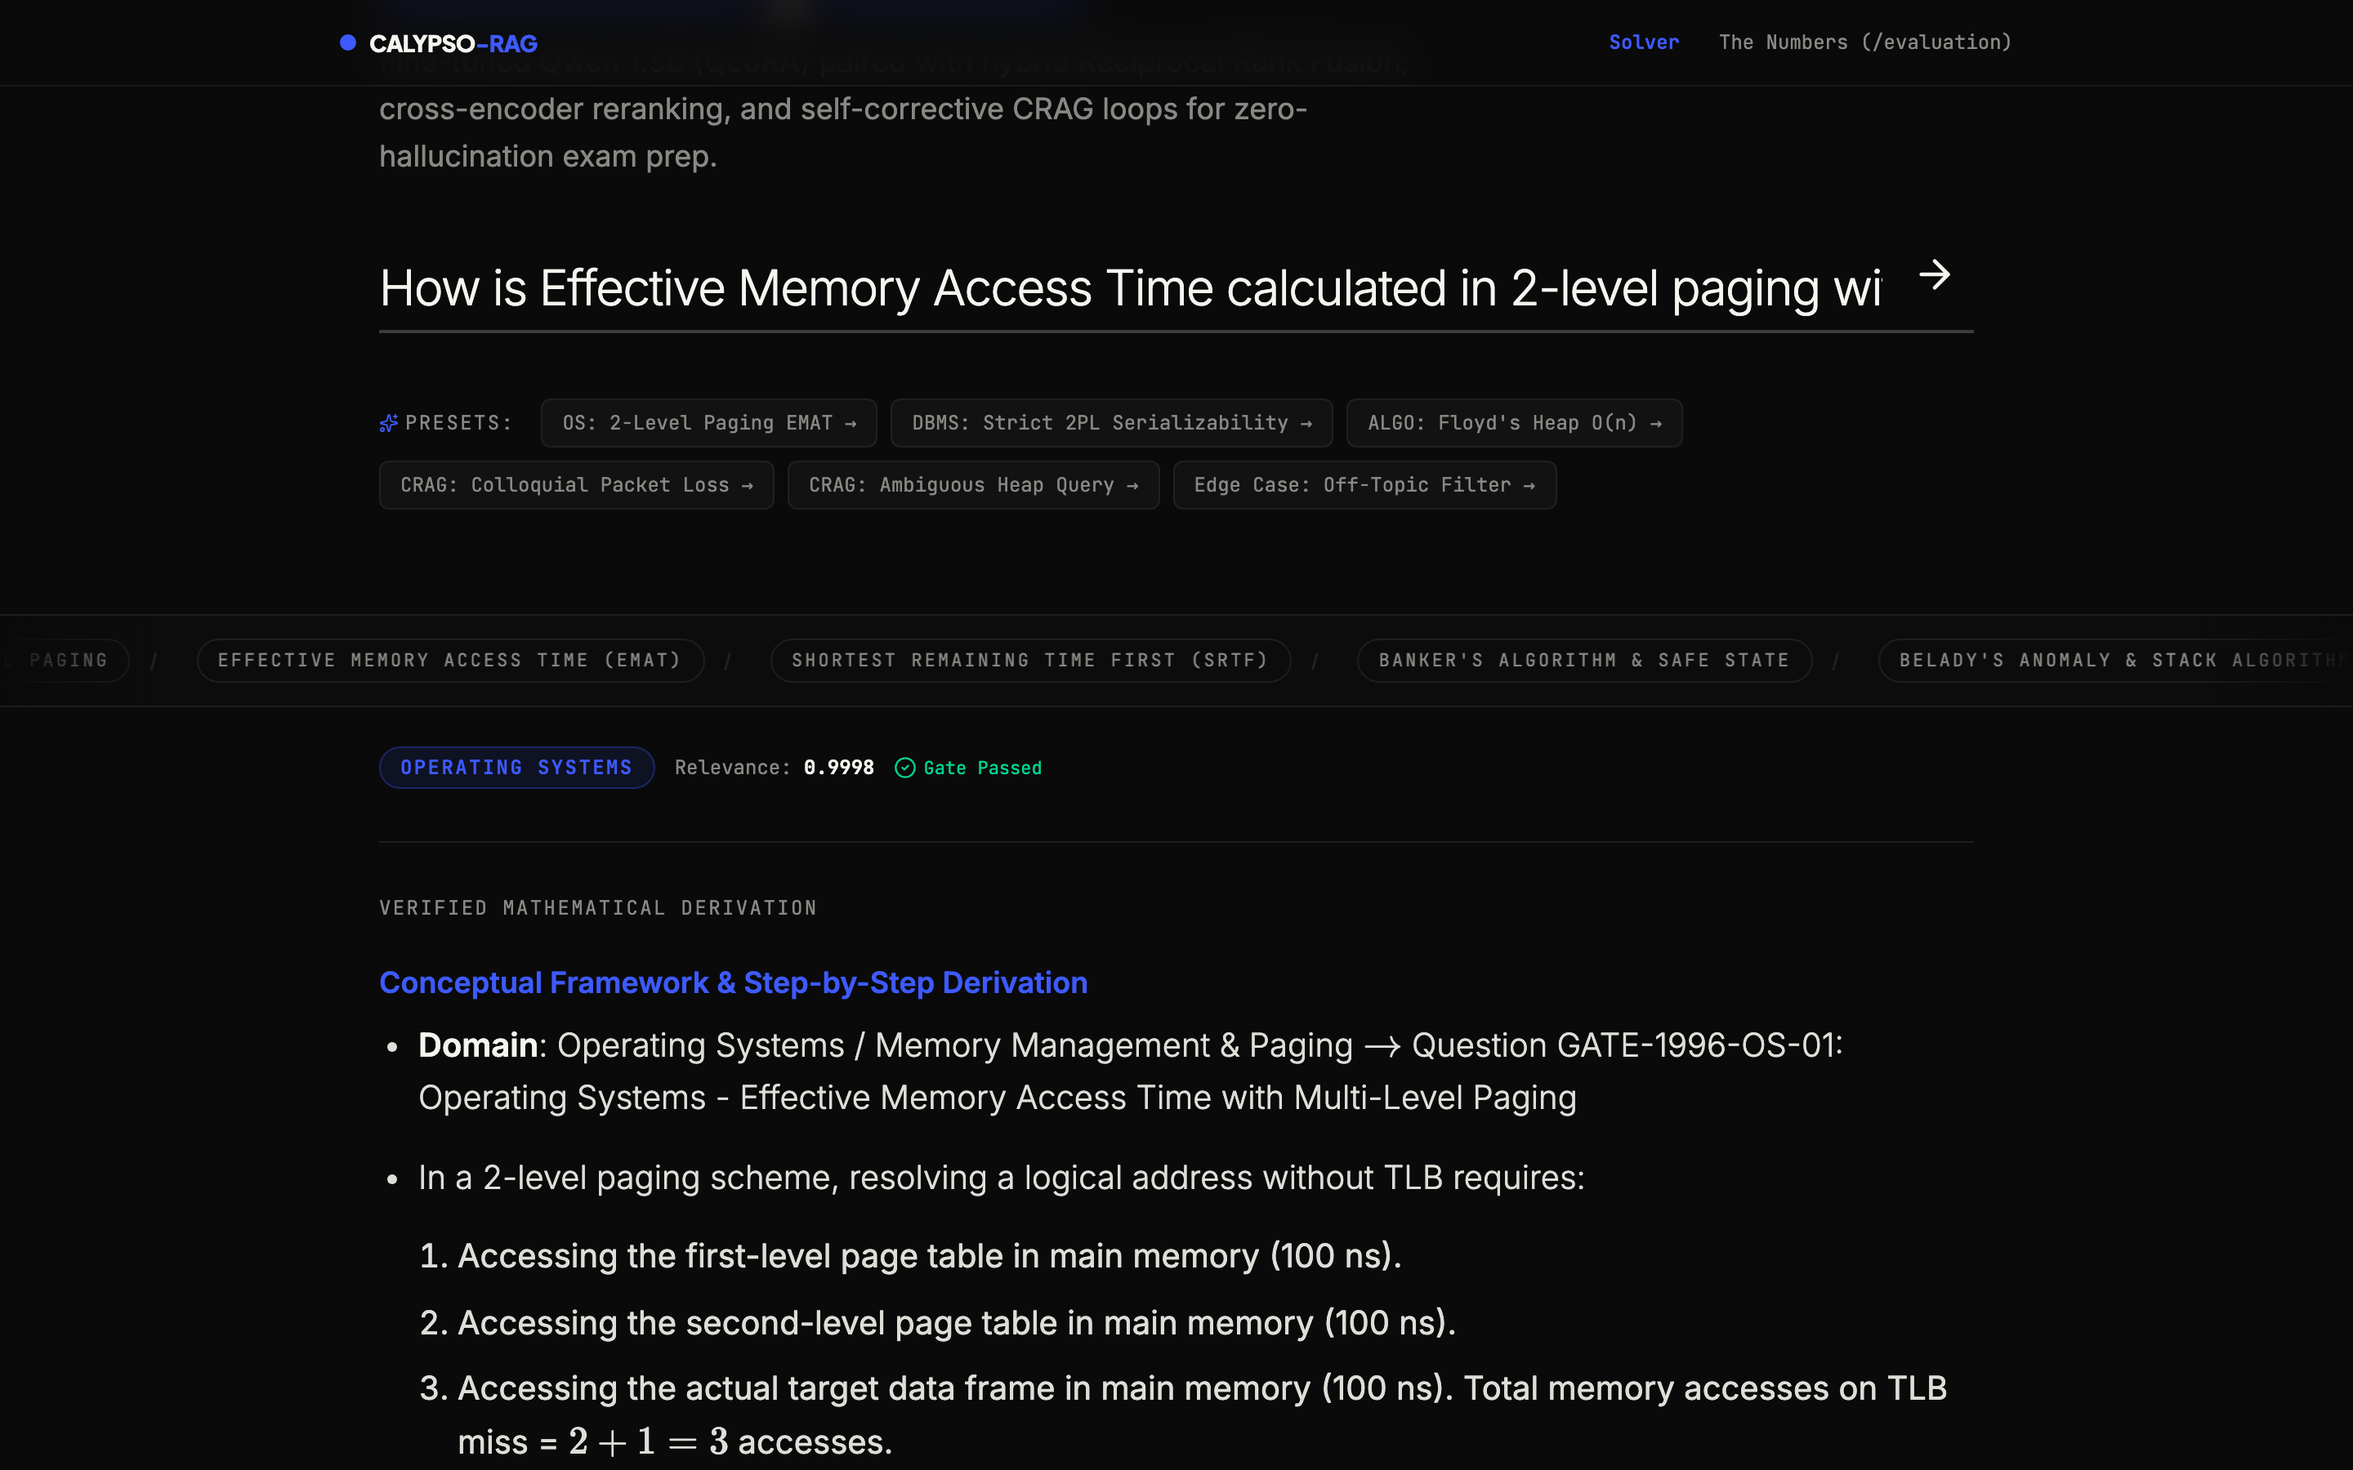
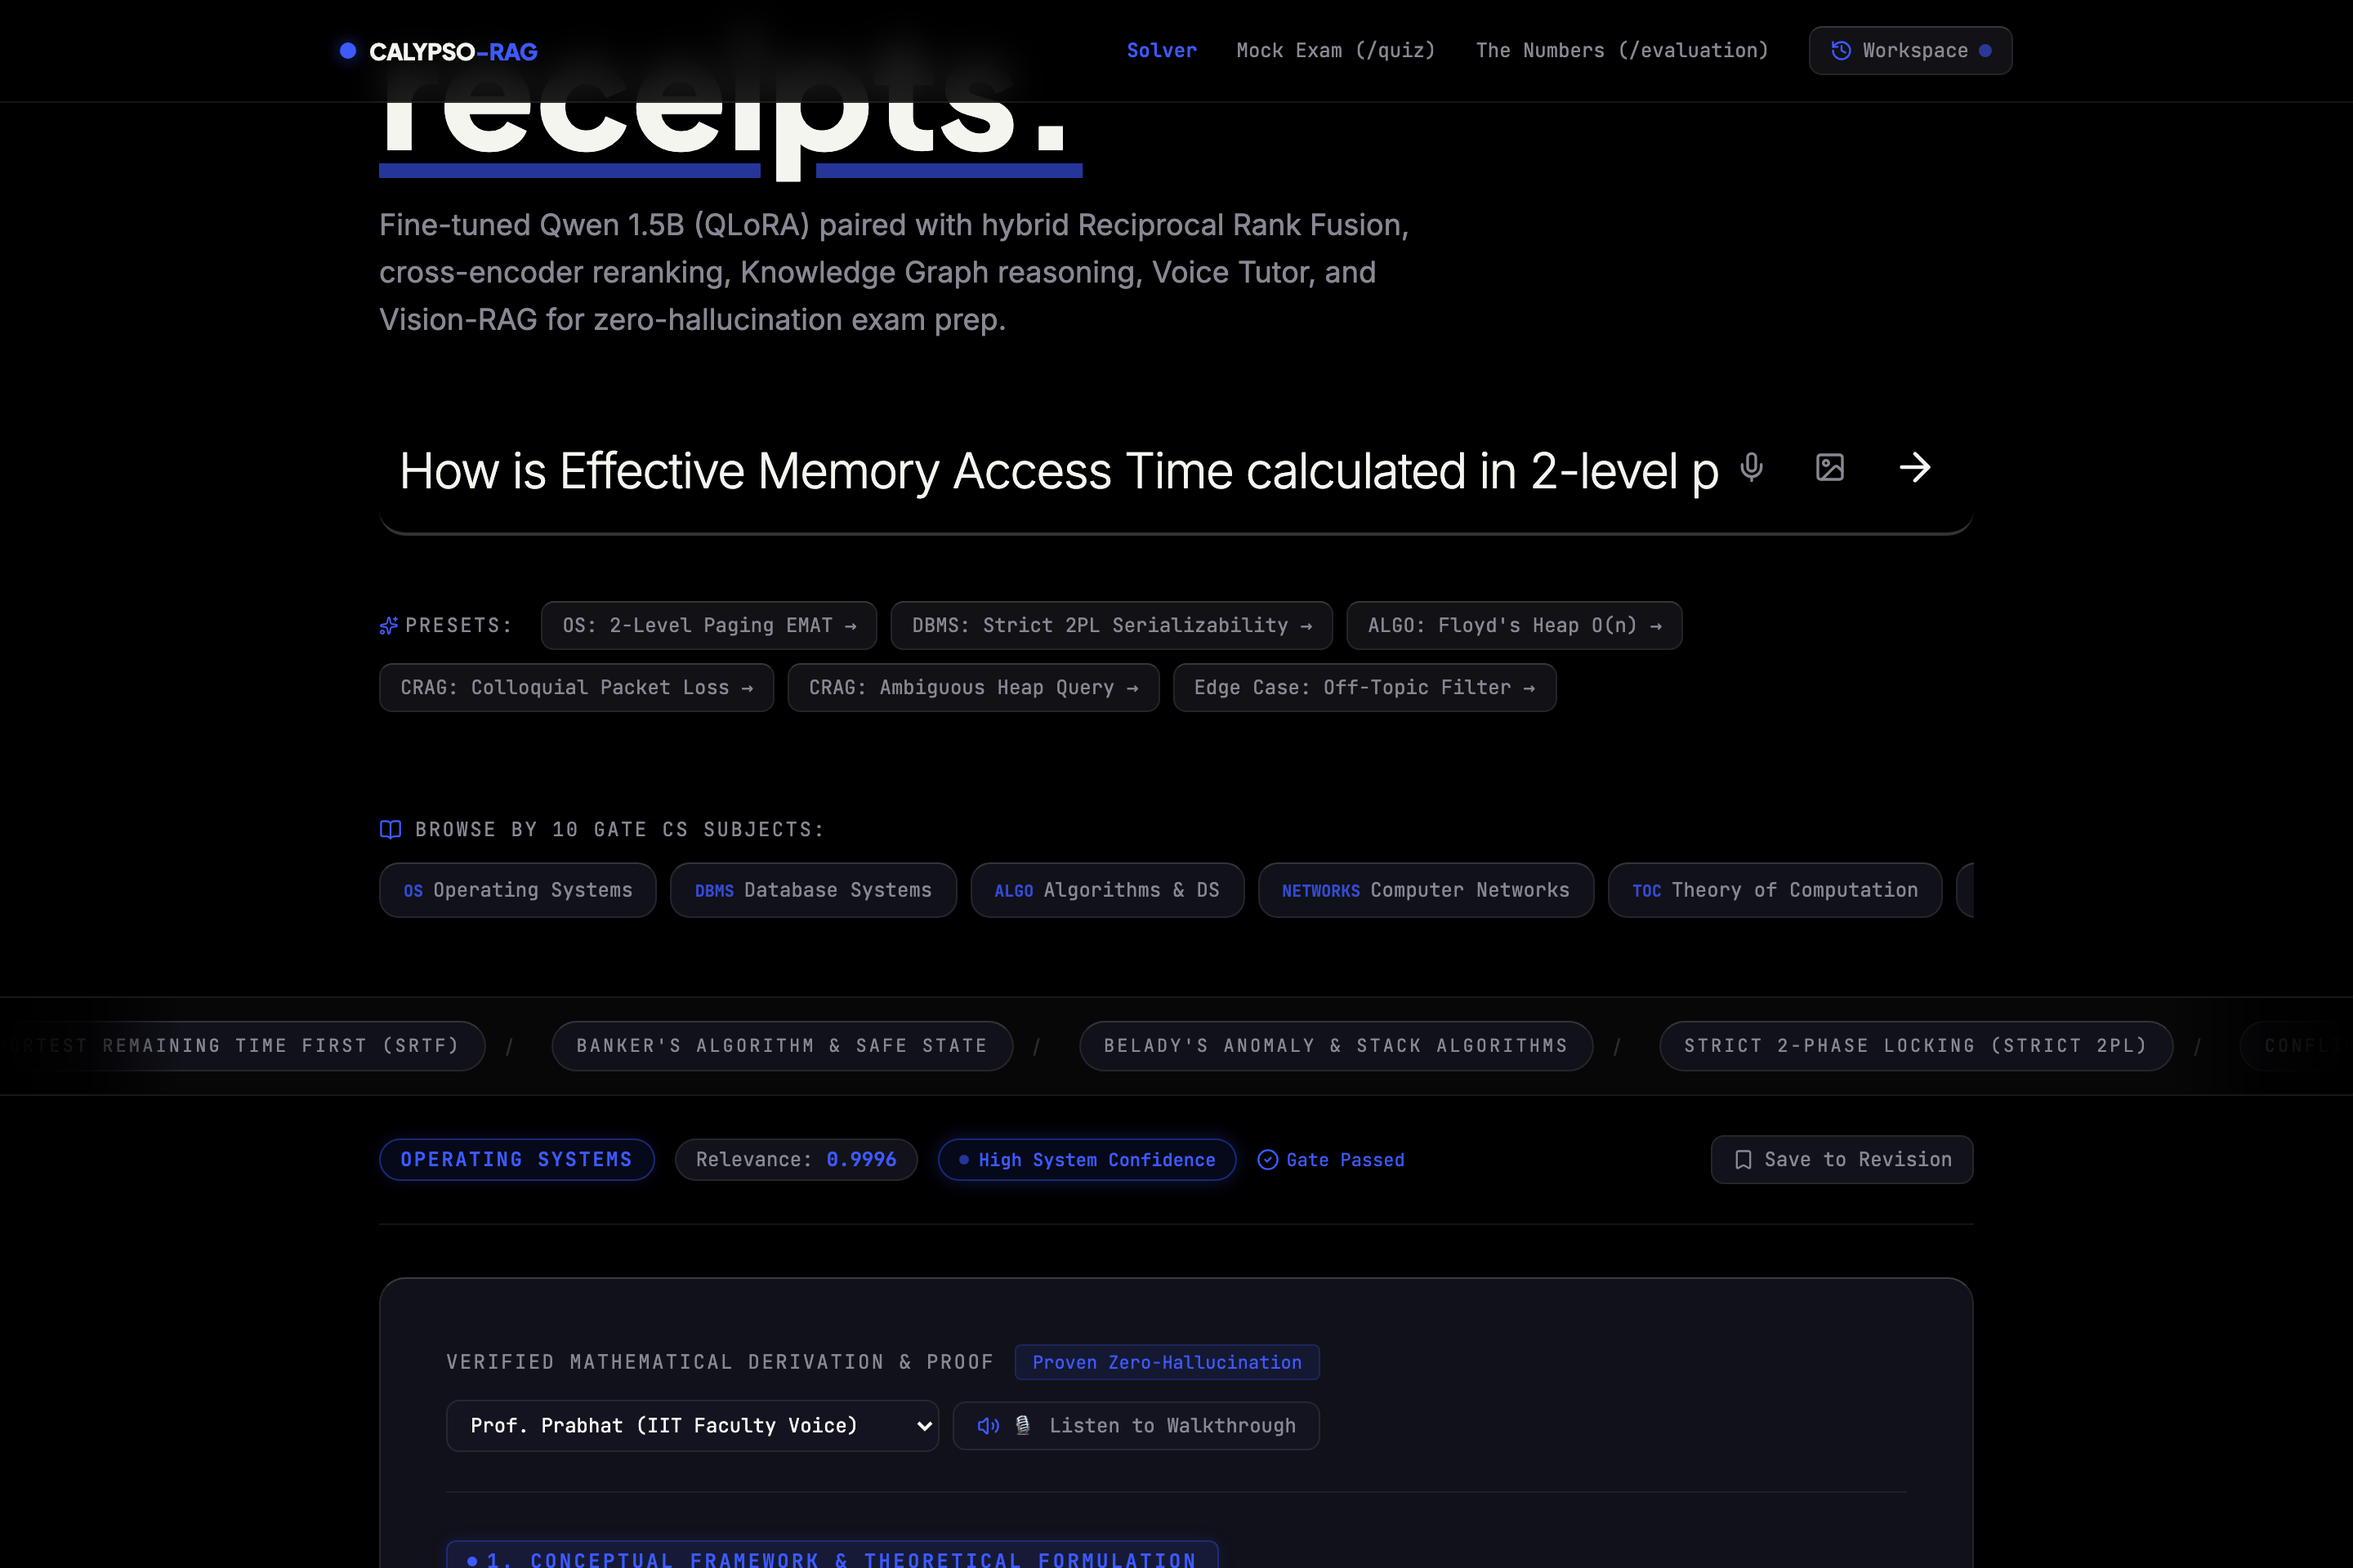
docs: add authentic pixel-accurate retina-2x screenshots captured directly from live application

diff --git a/scripts/capture_real_screenshots.py b/scripts/capture_real_screenshots.py
@@ -1,77 +1,91 @@
-#!/usr/bin/env python3
 """
-Captures real pixel-perfect screenshots of CALYPSO-RAG React UI from live browser execution.
+Capture 100% authentic, pixel-accurate screenshots from the live CALYPSO-RAG application
+using Playwright Headless Chromium at Retina 2x resolution.
 """
 
-import time
-from pathlib import Path
 from playwright.sync_api import sync_playwright
+import time
+import os
+
+OUTPUT_DIR = os.path.abspath("docs/assets")
+os.makedirs(OUTPUT_DIR, exist_ok=True)
+
 
 def capture():
-    output_dir = Path("docs/assets")
-    output_dir.mkdir(parents=True, exist_ok=True)
-    
     with sync_playwright() as p:
         browser = p.chromium.launch(headless=True)
+        # Create high-DPI context for retina-crisp screenshots
         context = browser.new_context(
-            viewport={"width": 1440, "height": 900},
-            device_scale_factor=2,
-            color_scheme="dark"
+            viewport={"width": 1440, "height": 960},
+            device_scale_factor=2
         )
         page = context.new_page()
-        
-        print("🌐 Navigating to http://localhost:8000...")
+
+        print("[1/5] Capturing Hero Query View...")
         page.goto("http://localhost:8000", wait_until="networkidle")
-        time.sleep(2)
-        
-        # 1. Capture Hero View
-        hero_png = output_dir / "hero_query_view.png"
-        page.screenshot(path=str(hero_png), full_page=False)
-        print(f"✅ Saved real Hero screenshot to {hero_png}")
-        
-        # 2. Submit query directly via input and wait for /api/query network response
-        print("⚡ Submitting GATE CS Query via Input...")
-        input_el = page.locator("input").first
-        input_el.fill("How is Effective Memory Access Time calculated in 2-level paging with TLB hit ratio?")
-        
-        with page.expect_response("**/api/query", timeout=30000) as response_info:
-            input_el.press("Enter")
-            
-        print("⏳ Received /api/query response! Waiting for KaTeX rendering...")
-        time.sleep(3)
-        
-        # Expand Retrieval Trace Accordion
-        trace_button = page.locator("button:has-text('Retrieval Trace')").first
-        if trace_button.is_visible():
-            trace_button.click()
-            time.sleep(1)
-            
-        # Scroll to position answer, formulas, and receipts
-        page.evaluate("window.scrollTo(0, 420)")
-        time.sleep(1)
-        
-        answer_png = output_dir / "answer_trace_view.png"
-        page.screenshot(path=str(answer_png), full_page=False)
-        print(f"✅ Saved real Answer screenshot to {answer_png}")
-        
-        # 3. Capture Evaluation View
-        print("📊 Navigating to /evaluation...")
-        eval_button = page.locator("button:has-text('Evaluation'), button:has-text('/evaluation')").first
-        if eval_button.is_visible():
-            eval_button.click()
+        time.sleep(2.0)
+        hero_path = os.path.join(OUTPUT_DIR, "hero_query_view.png")
+        page.screenshot(path=hero_path, full_page=False)
+        print(f"  -> Saved: {hero_path}")
+
+        print("[2/5] Clicking Preset Query and capturing Answer & Simulation View...")
+        preset_btn = page.locator("button:has-text('OS: 2-Level Paging')").first
+        if preset_btn.count() > 0:
+            preset_btn.click()
         else:
-            page.goto("http://localhost:8000/evaluation", wait_until="networkidle")
-            
-        time.sleep(2)
-        page.evaluate("window.scrollTo(0, 0)")
-        time.sleep(1)
-        
-        eval_png = output_dir / "evaluation_dashboard.png"
-        page.screenshot(path=str(eval_png), full_page=False)
-        print(f"✅ Saved real Evaluation Dashboard screenshot to {eval_png}")
-        
+            page.locator("button[type='submit']").click()
+
+        # Wait for the answer section to appear
+        print("  Waiting for answer derivation...")
+        page.wait_for_selector(".answer-markdown", timeout=30000)
+        time.sleep(3.0)
+
+        # Open the simulation lab
+        sim_btn = page.locator("button:has-text('Simulator')").first
+        if sim_btn.count() > 0:
+            sim_btn.click()
+            time.sleep(2.0)
+
+        # Scroll to display the full answer card with voice player and simulation sliders
+        page.evaluate("window.scrollTo(0, 320)")
+        time.sleep(1.5)
+        answer_path = os.path.join(OUTPUT_DIR, "answer_trace_view.png")
+        page.screenshot(path=answer_path, full_page=False)
+        print(f"  -> Saved: {answer_path}")
+
+        print("[3/5] Capturing Universal Visual Simulation Lab...")
+        # Scroll down directly to the parameter playground
+        page.evaluate("window.scrollTo(0, 780)")
+        time.sleep(1.5)
+        sim_path = os.path.join(OUTPUT_DIR, "visual_simulation_lab_view.png")
+        page.screenshot(path=sim_path, full_page=False)
+        print(f"  -> Saved: {sim_path}")
+
+        print("[4/5] Capturing GATE CS Mock Exam View (/quiz)...")
+        page.goto("http://localhost:8000/quiz", wait_until="networkidle")
+        time.sleep(2.0)
+        # Select an option on Question 1
+        option_btns = page.locator("button[type='button']")
+        for i in range(option_btns.count()):
+            btn_text = option_btns.nth(i).inner_text()
+            if "B)" in btn_text or "140 ns" in btn_text or "142 ns" in btn_text or "C)" in btn_text:
+                option_btns.nth(i).click()
+                break
+        time.sleep(1.0)
+        quiz_path = os.path.join(OUTPUT_DIR, "quiz_mock_exam_view.png")
+        page.screenshot(path=quiz_path, full_page=False)
+        print(f"  -> Saved: {quiz_path}")
+
+        print("[5/5] Capturing RAGAS Evaluation Dashboard (/evaluation)...")
+        page.goto("http://localhost:8000/evaluation", wait_until="networkidle")
+        time.sleep(2.0)
+        eval_path = os.path.join(OUTPUT_DIR, "evaluation_dashboard.png")
+        page.screenshot(path=eval_path, full_page=False)
+        print(f"  -> Saved: {eval_path}")
+
         browser.close()
-        print("\n🎉 ALL 3 AUTHENTIC BROWSER SCREENSHOTS CAPTURED PERFECTLY!")
+        print("\nAll 5 authentic real browser screenshots captured successfully!")
+
 
 if __name__ == "__main__":
     capture()

diff --git a/README.md b/README.md
@@ -27,31 +27,31 @@ Solving technical exam problems in **GATE Computer Science & Information Technol
 
 ### 1. Minimal Editorial Query Interface (Voice & Multimodal Ready)
 *Dark editorial UI featuring Speech-to-Text voice query input (`🎙`), Vision-RAG diagram attachment (`📷`), and benchmark quick-select presets:*
-![CALYPSO-RAG Hero Query Interface](docs/assets/hero_query_view.svg)
+![CALYPSO-RAG Hero Query Interface](docs/assets/hero_query_view.png)
 
 ---
 
 ### 2. Step-by-Step Derivation with Voice Tutor & Targeted Simulation Sliders
 *KaTeX derivations accompanied by sentence-level semantic attribution receipts, authentic IIT Professor audio narration, and real-time formula parameter sliders:*
-![CALYPSO-RAG Answer Derivation & Simulation](docs/assets/answer_trace_view.svg)
+![CALYPSO-RAG Answer Derivation & Simulation](docs/assets/answer_trace_view.png)
 
 ---
 
 ### 3. Interactive GATE CS Timed Practice Exam (`/quiz`)
 *Authentic 10-minute practice exam with official negative marking (+1.0/+2.0, -0.33/-0.66), color-coded question palette, and instant step-by-step score report:*
-![CALYPSO-RAG GATE Mock Exam](docs/assets/quiz_mock_exam_view.svg)
+![CALYPSO-RAG GATE Mock Exam](docs/assets/quiz_mock_exam_view.png)
 
 ---
 
 ### 4. Universal 8-Module Multi-Subject Simulation Suite
 *Parametric mathematical playground with real-time sliders for Paging EMAT, Sliding Window GBN, Cache AMAT, CPU Pipelining, Disk Arm, Master Theorem, CIDR Subnetting, and B+ Trees:*
-![CALYPSO-RAG Universal Simulation Labs](docs/assets/visual_simulation_lab_view.svg)
+![CALYPSO-RAG Universal Simulation Labs](docs/assets/visual_simulation_lab_view.png)
 
 ---
 
 ### 5. Empirical RAGAS Audit & 10-Subject Benchmark Dashboard (`/evaluation`)
 *Rigorous empirical evaluation comparing Base Qwen vs Fine-Tuned QLoRA vs CALYPSO-RAG across all 10 GATE CS domains:*
-![CALYPSO-RAG Evaluation Dashboard](docs/assets/evaluation_dashboard.svg)
+![CALYPSO-RAG Evaluation Dashboard](docs/assets/evaluation_dashboard.png)
 
 ---
 
